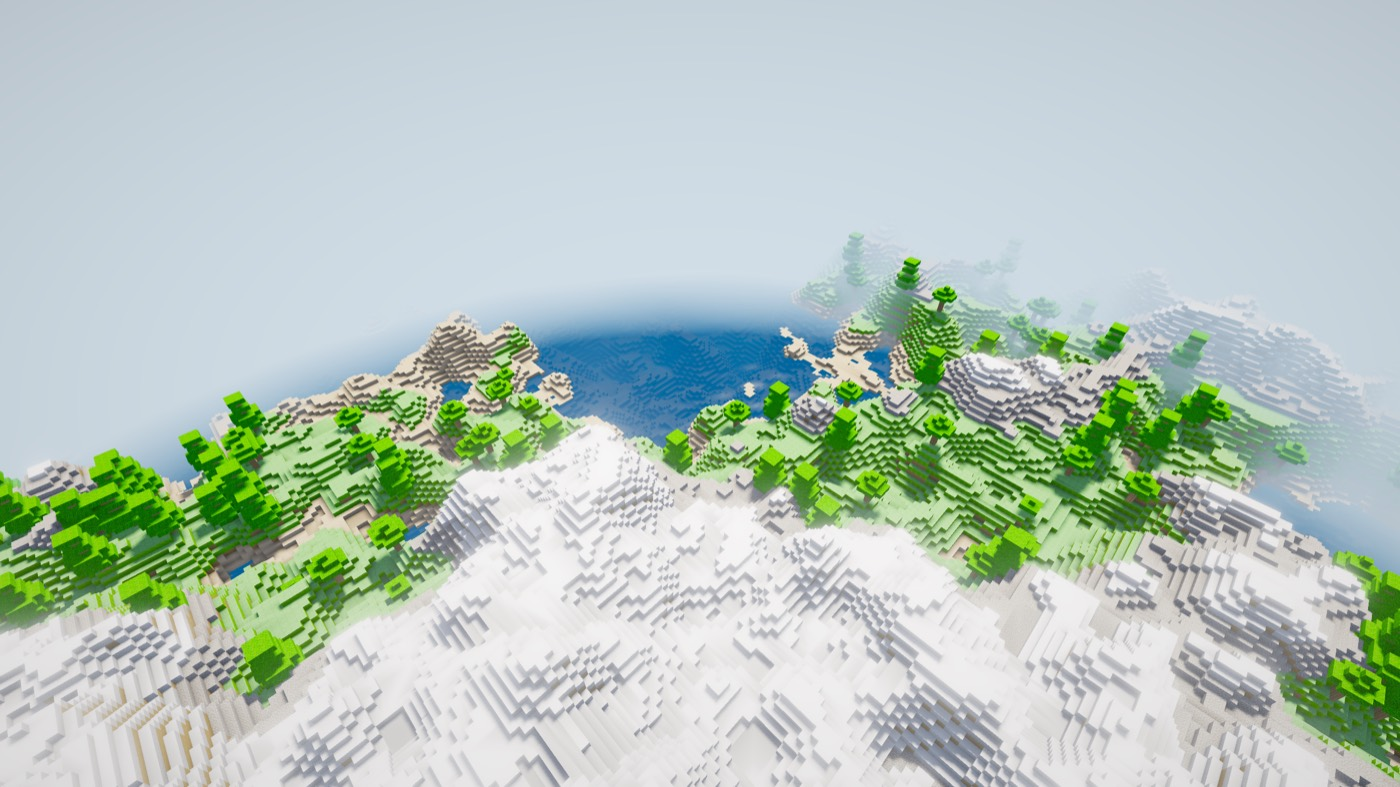
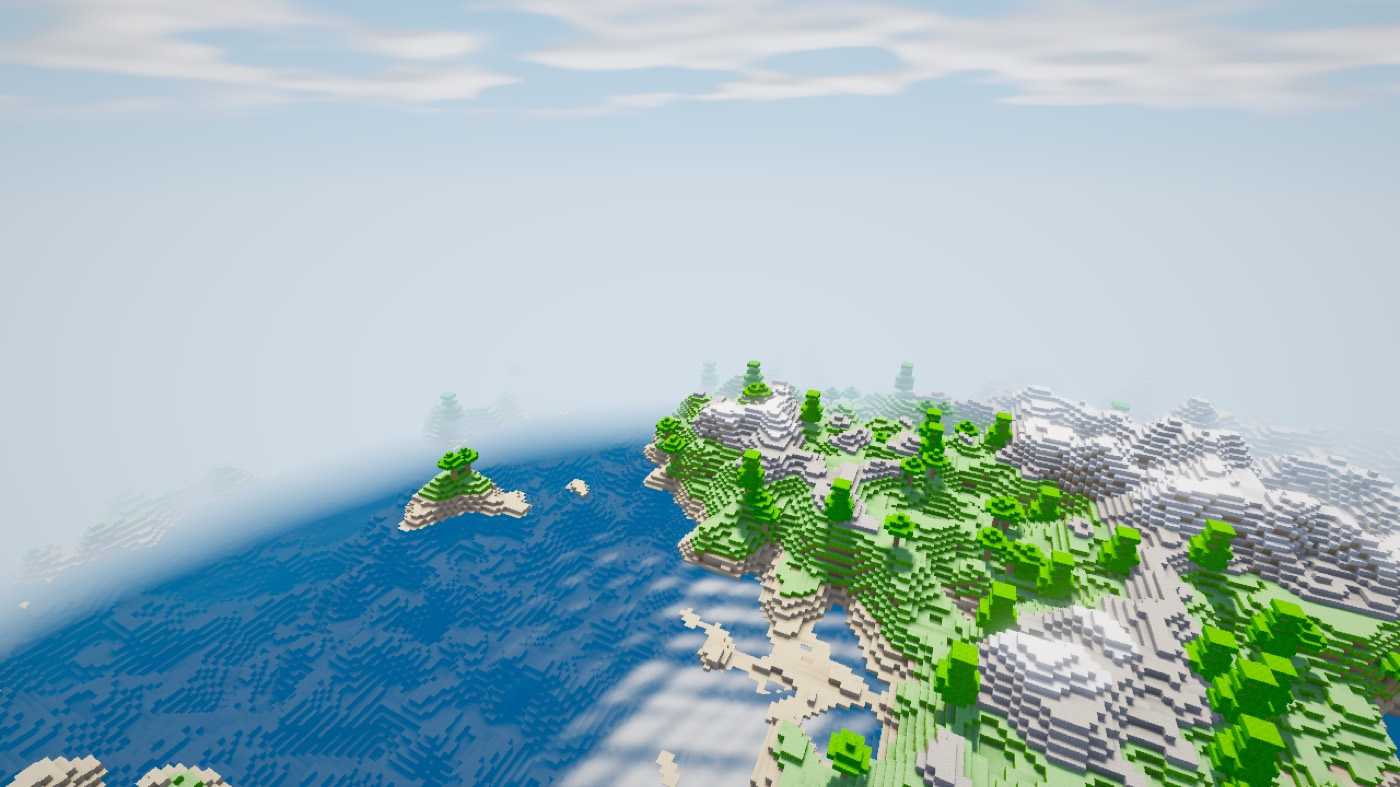
feat(capture): a clip of the slice turning, and --slice-tilt now pivots where the wheel does
The rotation is a motion and three stills cannot show one. --capture-tilt
holds the camera and sweeps the cut instead - the only capture mode where
the world moves and the viewer does not - as a sin ping-pong so the last
frame meets the first and the GIF loops.

Two defects found making it, both mine.

**--slice-tilt pivoted at the world origin.** It was applied where the 4D
generator is attached, before the camera has a pose, so it turned about
z=0 while the camera sat 60 blocks out. Every tilted still therefore
showed MORE change than a player sees: rotating about the origin
displaces terrain in proportion to its distance from z=0, so the ground
under that camera moved, where scrolling in game leaves it still and
moves the distance. The stills were honest about the generator and wrong
about the engine. Applied after the pose now, turning about the camera
exactly as the wheel does.

That changed what a good capture pose is, and the first one was bad in a
way worth recording: parked 115 blocks up looking down at its own feet,
the three frames were nearly identical, because the pivot is the viewer
and the near field is where a rotation does least. The stills and the
clip both use an elevated mid-distance vantage now, and the sweep is
0.15 rad rather than 0.08 for the same reason.

**The clip converged on every render frame, including the 90 settle
frames**, and a convergence that fell back on its deadline burned twenty
[…]

diff --git a/src/main.cpp b/src/main.cpp
@@ -288,10 +288,12 @@ int main(int argc, char** argv) {
     const int thread_override = opt.thread_override;
     const int orbit_frames = opt.orbit_frames;
     const int cycle_frames = opt.cycle_frames;
+    const int tilt_frames  = opt.capture_tilt;
     // The two capture questions, named once (core/capture_mode.h). Built
     // from the same values the locals above carry; shot_after is the one
     // that counts down, so `capture` is rebuilt where that matters.
     core::CaptureMode capture{shot_after, orbit_frames, cycle_frames,
+                              tilt_frames,
                               bench_frames};
     const bool no_occlusion = opt.no_occlusion;
     const std::optional<world::ChunkCoord> only_chunk =
@@ -421,10 +423,8 @@ int main(int argc, char** argv) {
     const world::TerrainGen4D terrain4d(terrain_seed);
     if (opt.four_d) {
         wrld.set_slice_source(&terrain4d, static_cast<float>(opt.slice_w));
-        // Pivot at 0: --slice-tilt is applied before the camera exists,
-        // and a capture's pose is set afterwards, so there is no player
-        // position to turn about yet.
-        if (opt.slice_tilt != 0.0f) wrld.rotate_slice(opt.slice_tilt, 0.0f);
+        // --slice-tilt is applied further down, once the camera has its
+        // pose, so it turns about the viewer exactly as the wheel does.
         std::printf("\n"
             "  ========================================================\n"
             "   FOUR-DIMENSIONAL WORLD   (--3d for the ordinary one)\n"
@@ -553,6 +553,23 @@ int main(int argc, char** argv) {
             cam.set_position({0.0f, 80.0f, 0.0f});
             cam.set_yaw_pitch(-90.0f, -15.0f);
         }
+    }
+
+    // --slice-tilt, applied here rather than where the 4D generator is
+    // attached, because it has to turn about the CAMERA.
+    //
+    // It used to pivot at the world origin, since the camera had no pose
+    // yet at that point. That made every tilted capture show more change
+    // than a player sees: rotating about the origin displaces terrain in
+    // proportion to its distance from z=0, so a camera parked 60 blocks
+    // out watched the ground under it move, where scrolling in game
+    // leaves it still and moves the distance. The stills were honest
+    // about the generator and wrong about the engine.
+    // In the tilt clip --slice-tilt names the sweep's AMPLITUDE rather
+    // than a fixed angle, so one flag covers both "hold this cut" and
+    // "swing through this much of one".
+    if (opt.slice_tilt != 0.0f && tilt_frames == 0) {
+        wrld.rotate_slice(opt.slice_tilt, cam.position().z);
     }
 
     core::Input input;
@@ -878,6 +895,32 @@ int main(int argc, char** argv) {
         // height, always looking at the scene center; the cycle parks at
         // the orbit's start pose and spends the frames on one full day of
         // time-of-day instead.
+        // The tilt clip holds the camera and turns the 4D cut instead -
+        // the one capture where the world moves and the viewer does not.
+        //
+        // A ping-pong through sin, not a ramp: the sweep has to return to
+        // where it started or the GIF's last frame will not meet its
+        // first, and a rotation has no period short enough to loop on.
+        if (tilt_frames > 0 && world_settled) {
+            // --pose-at wins if given; otherwise park at the orbit's
+            // start, which looks across the spawn triple point.
+            if (!have_pose_at) {
+                const OrbitPose op = orbit_pose_at(0, 1, orbit_center);
+                cam.set_position(op.pos);
+                cam.set_yaw_pitch(op.yaw, op.pitch);
+            }
+            // Bigger than the stills' 0.08 on purpose. The pivot is the
+            // viewer, so the ground under the camera barely moves however
+            // far the cut turns - the change lives in the middle distance,
+            // and a sweep has to be wide enough to carry it there.
+            const float kTiltAmplitude =
+                (opt.slice_tilt != 0.0f) ? std::fabs(opt.slice_tilt) : 0.15f;
+            const float phase = 6.28318530718f *
+                static_cast<float>(capture_frame) /
+                static_cast<float>(tilt_frames);
+            const float want = kTiltAmplitude * std::sin(phase);
+            wrld.rotate_slice(want - wrld.slice_theta(), cam.position().z);
+        }
         if ((orbit_frames > 0 || cycle_frames > 0) && world_settled) {
             // Cycle parks at the orbit start (frame 0) and spends its
             // frames on time-of-day; orbit sweeps the full circle.
@@ -1232,6 +1275,37 @@ int main(int argc, char** argv) {
             if (capture_settle < kCaptureSettleFrames) {
                 ++capture_settle;
             } else {
+                // The tilt clip changes the WHOLE window between frames,
+                // so it converges before the shot rather than riding the
+                // streaming budget the way a moving camera can. A GIF of
+                // a half-built world is worse than no GIF.
+                //
+                // Here, not next to the rotation at the top of the loop:
+                // there it ran on all 90 settle frames as well, and a
+                // convergence that fell back on its deadline burned
+                // twenty seconds ninety times before the first PNG was
+                // written. Six frames took over ten minutes.
+                if (tilt_frames > 0) {
+                    const auto deadline = std::chrono::steady_clock::now() +
+                                          std::chrono::seconds(10);
+                    bool converged = false;
+                    while (std::chrono::steady_clock::now() < deadline) {
+                        wrld.drain_finished(256);
+                        wrld.flush_pending_remeshes(pool, 256);
+                        if (wrld.pending_async() == 0 &&
+                            wrld.pending_remesh() == 0 &&
+                            wrld.stream_slice(terrain, pool, 256) == 0) {
+                            converged = true;
+                            break;
+                        }
+                        std::this_thread::yield();
+                    }
+                    if (!converged) {
+                        std::fprintf(stderr, "[capture] frame %d did not "
+                                     "converge; %d chunks stale\n",
+                                     capture_frame, wrld.slice_lag().stale);
+                    }
+                }
                 char frame_name[32];
                 std::snprintf(frame_name, sizeof(frame_name),
                               "frame_%04d.png", capture_frame);

diff --git a/src/core/cli_options.cpp b/src/core/cli_options.cpp
@@ -138,6 +138,7 @@ std::optional<CliOptions> parse_cli(int argc, char** argv,
                 "  voxel_engine --4d                     force 4D on (benches and captures default to 3D)\n"
                 "  voxel_engine --verify-4d              step along w and back, check it returns exactly, exit\n"
                 "  voxel_engine --bench-4d               cost of travelling and of rotating the slice, exit\n"
+                "  voxel_engine --capture-tilt N         N frames sweeping the 4D slice rotation, exit\n"
                 "  voxel_engine --list-monitors          list the displays and their indices, exit\n"
                 "  voxel_engine --monitor N              open on display N (default: wherever GLFW puts it)\n"
                 "  voxel_engine --slice-w N              start on slice N of the 4D world (implies --4d)\n"
@@ -197,6 +198,15 @@ std::optional<CliOptions> parse_cli(int argc, char** argv,
         if (arg == "--verify-4d") { o.verify_4d = true; o.four_d = true; continue; }
         if (arg == "--bench-4d") { o.bench_4d = true; o.four_d = true; continue; }
         if (arg == "--list-monitors") { o.list_monitors = true; continue; }
+        if (arg == "--capture-tilt") {
+            const char* v = value_for(arg, argc, argv, i, exit_code);
+            if (!v || !parse_count(v, 2, 100000, "--capture-tilt",
+                                   &o.capture_tilt, exit_code)) {
+                return std::nullopt;
+            }
+            o.four_d = true;
+            continue;
+        }
         if (arg == "--monitor") {
             // parse_count, not atoi. atoi reads "banana" as 0 and "1O" as
             // 1, so the run went ahead on the wrong display with no
@@ -407,16 +417,26 @@ std::optional<CliOptions> parse_cli(int argc, char** argv,
         return std::nullopt;
     }
 
-    // The two capture modes are mutually exclusive and need a positive
-    // frame count. Rejecting here keeps the render loop's guards simple
-    // and avoids the soft-lock a negative atoi would otherwise cause: the
+    // The capture modes are mutually exclusive and need a positive frame
+    // count. Rejecting here keeps the render loop's guards simple and
+    // avoids the soft-lock a negative atoi would otherwise cause: the
     // input-enable and capture-enable checks would disagree, freezing the
     // camera with no capture and no way out.
-    if (o.orbit_frames != 0 && o.cycle_frames != 0) {
-        std::fprintf(stderr,
-                     "--capture-orbit and --capture-cycle are exclusive\n");
+    {
+        const int modes = (o.orbit_frames != 0 ? 1 : 0) +
+                          (o.cycle_frames != 0 ? 1 : 0) +
+                          (o.capture_tilt != 0 ? 1 : 0);
+        if (modes > 1) {
+            std::fprintf(stderr, "--capture-orbit, --capture-cycle and "
+                                 "--capture-tilt are exclusive\n");
+            exit_code = EXIT_FAILURE;
+            return std::nullopt;
+        }
+    }
+    if (o.force_3d && o.capture_tilt != 0) {
+        std::fprintf(stderr, "--3d and --capture-tilt are contradictory\n");
         exit_code = EXIT_FAILURE;
-                return std::nullopt;
+        return std::nullopt;
     }
     // The count, range and sign checks that used to live here are gone
     // because they had become unreachable: every numeric flag now goes

diff --git a/src/core/capture_mode.h b/src/core/capture_mode.h
@@ -22,6 +22,10 @@ struct CaptureMode {
     int shot_after   = 0;  // frames to settle before a single PNG
     int orbit_frames = 0;  // frames of a camera orbit, one PNG each
     int cycle_frames = 0;  // frames of a day/night cycle, one PNG each
+    // Frames of a slice-rotation sweep, one PNG each. Holds the camera
+    // and turns the 4D cut instead, which is the only capture where the
+    // WORLD moves and the viewer does not.
+    int tilt_frames  = 0;
     int bench_frames = 0;  // frames to time; writes no image
 
     // The camera is driven by a script rather than by the player, so live
@@ -33,7 +37,8 @@ struct CaptureMode {
     // --bench-frame is NOT here: the plain frame bench uses the player's
     // pose and the orbit bench drives the camera through its own path.
     bool scripted_camera() const {
-        return shot_after > 0 || orbit_frames > 0 || cycle_frames > 0;
+        return shot_after > 0 || orbit_frames > 0 || cycle_frames > 0 ||
+               tilt_frames > 0;
     }
 
     // The run exists to produce an image or a measurement, so interface
@@ -56,7 +61,9 @@ struct CaptureMode {
     // Orbit wins if both are somehow set, which matches the order the
     // camera path is chosen in.
     int image_sequence_frames() const {
-        return orbit_frames > 0 ? orbit_frames : cycle_frames;
+        if (orbit_frames > 0) return orbit_frames;
+        if (cycle_frames > 0) return cycle_frames;
+        return tilt_frames;
     }
 };
 

diff --git a/src/bench/slice4d.cpp b/src/bench/slice4d.cpp
@@ -126,9 +126,11 @@ int tilt_table(std::uint32_t seed) {
     };
     sample(0.0f, flat);
 
-    // 0.003 is one scroll notch; 0.03 and 0.08 are the two tilts the
-    // README's triptych is captured at; the rest bracket them.
-    const float tilts[] = {0.003f, 0.01f, 0.03f, 0.05f, 0.08f, 0.25f, 1.5708f};
+    // 0.003 is one scroll notch; 0.075 and 0.15 are the two tilts the
+    // README's triptych is captured at, and 0.15 is the tilt clip's sweep
+    // amplitude; the rest bracket them.
+    const float tilts[] = {0.003f, 0.01f, 0.03f, 0.05f, 0.075f, 0.15f,
+                           0.25f, 1.5708f};
     std::printf("tilt divergence from theta=0, seed %u, %dx%d columns\n\n",
                 seed, kSize, kSize);
     std::printf("  %8s  %10s  %8s  %10s\n",

diff --git a/src/core/cli_options.h b/src/core/cli_options.h
@@ -109,6 +109,9 @@ struct CliOptions {
     // built-in one. --list-monitors prints the indices and exits.
     int  monitor = -1;
     bool list_monitors = false;
+    // --capture-tilt N: hold the camera and sweep the slice rotation
+    // through a ping-pong, one PNG per frame. Implies --4d.
+    int  capture_tilt = 0;
     int  slice_w = 0;
     // --slice-tilt R: start with the cut rotated R radians, for captures.
     float slice_tilt = 0.0f;

diff --git a/README.md b/README.md
@@ -97,17 +97,27 @@ hyperplane slice - and the slice is something you can move.
 <table>
 <tr>
 <td><img src="docs/media/tilt_0.00.jpg" width="270"><br><sub><b>flat cut</b></sub></td>
-<td><img src="docs/media/tilt_0.03.jpg" width="270"><br><sub><b>tilted 1.7 deg</b>, 73% of columns moved</sub></td>
-<td><img src="docs/media/tilt_0.08.jpg" width="270"><br><sub><b>tilted 4.6 deg</b>, 85%</sub></td>
+<td><img src="docs/media/tilt_0.075.jpg" width="270"><br><sub><b>tilted 4.3 deg</b>, 85% of columns moved</sub></td>
+<td><img src="docs/media/tilt_0.15.jpg" width="270"><br><sub><b>tilted 8.6 deg</b>, 90%</sub></td>
 </tr>
 </table>
 
 One camera, one seed, one `w`. The only thing changing between those three
-frames is the **angle** of the cut through the 4D world, and it is a few
-degrees. The lake and the headland stay recognisable while the snow field
-advances, the forest belt retreats and the sand spit reshapes: a related
-place seen from a different angle through the fourth dimension, not a
-reseeded one.
+frames is the **angle** of the cut through the 4D world. The coastline
+stays recognisable while the snow ridge becomes forest, islands appear
+off the point and the shoreline reorganises: a related place seen from a
+different angle through the fourth dimension, not a reseeded one.
+
+![The slice turning, camera held still](docs/media/slice_tilt.gif)
+
+Three seconds of the wheel, camera locked. Notice where the change is:
+the water in the near left barely moves while the middle distance
+rearranges itself. That is not an artifact of the clip - the cut turns
+about the **viewer**, so the ground under your feet stays put and the
+world reorganises around you, which is what makes it read as turning
+rather than as teleporting.
+
+    CLIP_TIME_OF_DAY=0.62 scripts/capture_clip.sh tilt
 
 That distinction is the whole design, and it took a wrong turn to find.
 The first version only **translated** along w, so every slice was the
@@ -117,28 +127,32 @@ and travelling swaps one ordinary 3D world for another ordinary 3D world.
 Rotating the slice cuts the lattice at an angle instead, which is what
 puts 4D structure on screen in cross section.
 
-The two motions are not the same size, and the reason is geometric: a
-tilted hyperplane diverges from the original linearly with distance, so
-the far edge of the view moves far more than the near.
+How far each motion moves the terrain, over the same window:
 
     ./build/slice4d --tilt          # seed 1337, 512x512 columns
 
 | motion | columns changed | largest move |
 |---|---|---|
 | rotate 0.003 rad (one scroll notch, 0.17 deg) | 19.4% | 2 blocks |
-| rotate 0.03 rad (centre image) | 73.2% | 15 |
-| rotate 0.08 rad (right image) | 85.2% | 21 |
+| rotate 0.075 rad (centre image) | 84.6% | 21 |
+| rotate 0.15 rad (right image, and the clip's sweep) | 89.8% | 29 |
 | **translate** w by a full rebuild threshold | 36.3% | 2 |
 
-What separates the two is not the size of the change but its *shape*. A
-translation moves every point of the window by the same amount. A
-rotation's displacement is proportional to distance from the axis it
-turns about, so the far field moves several times more than the near -
-measured at 0.03 rad, the band 64-128 blocks out changes more than 1.5x
-as many columns as the band under the player, while a translation is flat
-across the same two bands. No choice of w reproduces that, which is why a
-tilted cut looks like a different angle on the same world rather than a
-different world.
+Those totals are the less interesting half, and an earlier version of
+this table leaned on them too hard: at one scroll notch a rotation moves
+columns by at most 2 blocks, which is exactly what a rebuild-threshold
+translation gives. Rotation is not distinguished from translation by how
+MUCH it changes.
+
+It is distinguished by the *shape* of the change. A translation moves
+every point of the window by the same amount. A rotation's displacement
+is proportional to distance from the axis it turns about, so the far
+field moves several times more than the near: at 0.03 rad the band
+64-128 blocks out changes more than 1.5x as many columns as the band
+under the player's feet, while a translation is flat across the same two
+bands. That is structural. No choice of `w` reproduces it, and it is why
+a tilted cut reads as a different angle on the same world rather than as
+a different world.
 
 ### What the motion costs
 
@@ -185,9 +199,10 @@ neighbours land, and deliberately spends the work at 24 chunks a frame
 instead of dumping it all at once. A settle FASTER than the model would
 have meant the model was wrong.
 
-The chunk counts above reproduce exactly run to run; the timings are given
-as ranges because they are timings. Details, including two columns this
-bench had to remove for reporting constants rather than measurements:
+The chunk counts above reproduce exactly run to run, being counts; the
+timings are one run of many and move by a few percent between them.
+Details, including two columns this bench had to remove for reporting
+constants rather than measurements:
 [docs/bench/4d_motion.md](docs/bench/4d_motion.md).
 
 Both motions are verified rather than asserted. `--verify-4d` steps along
